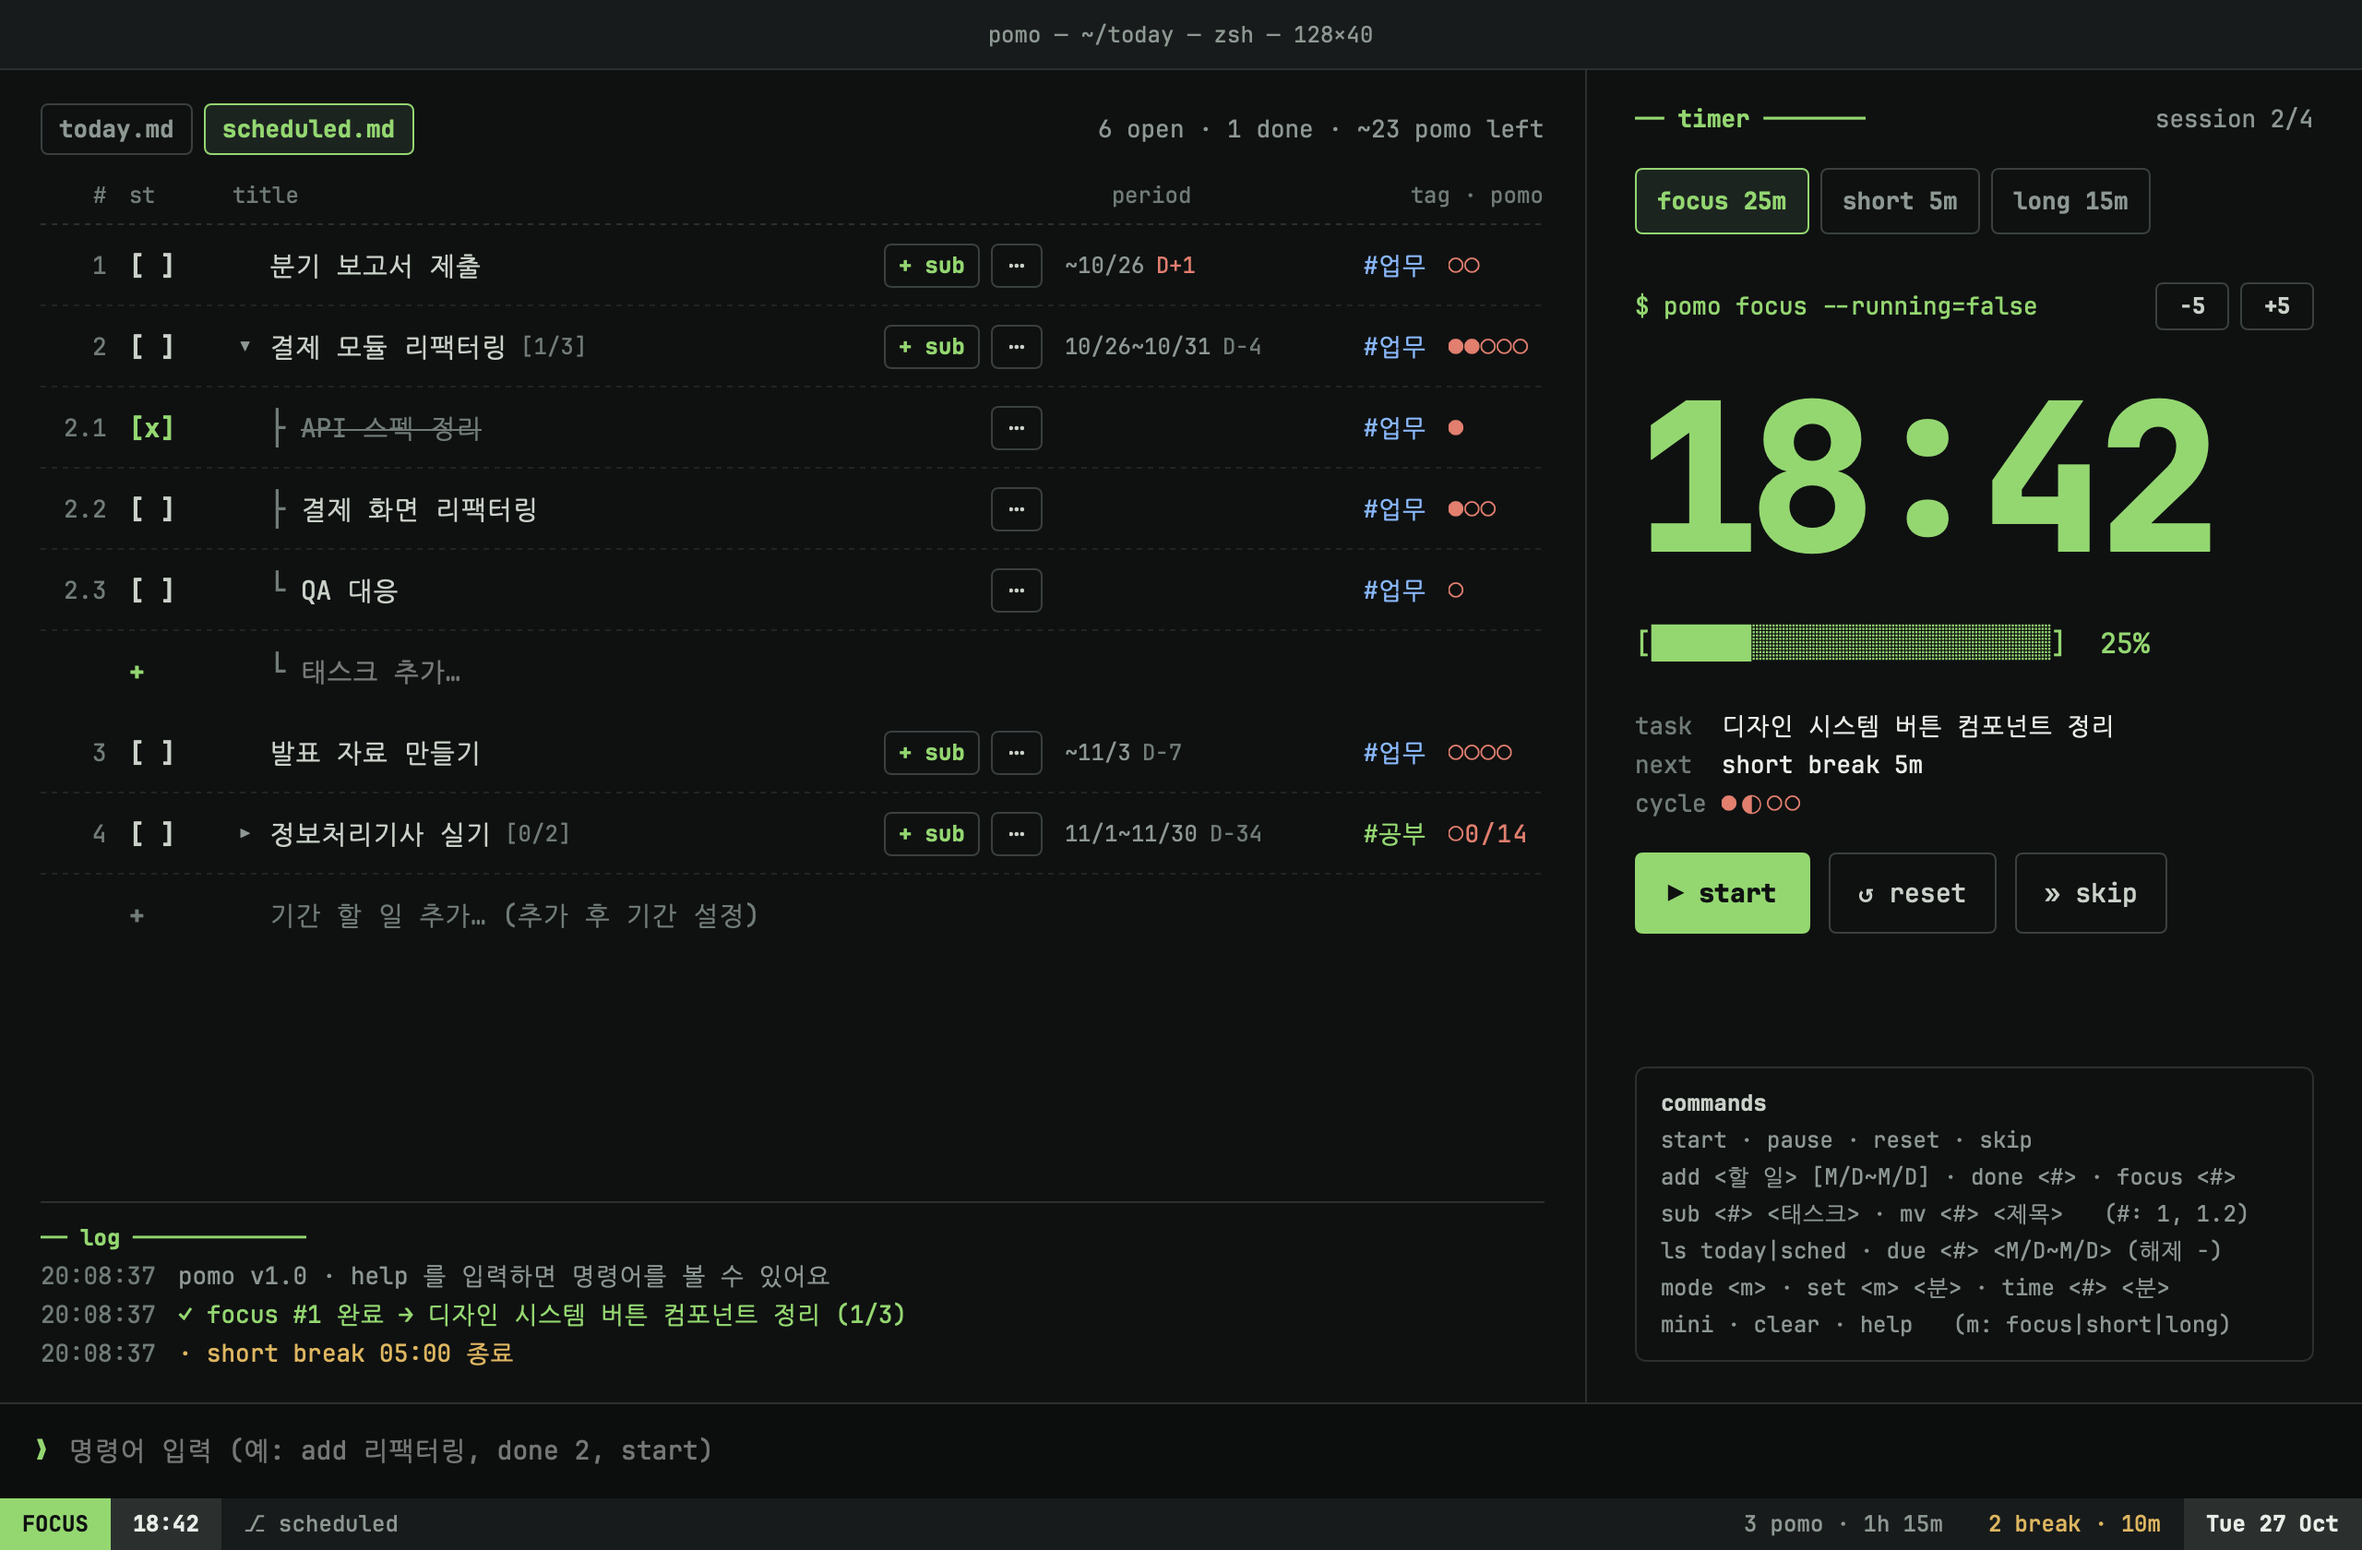
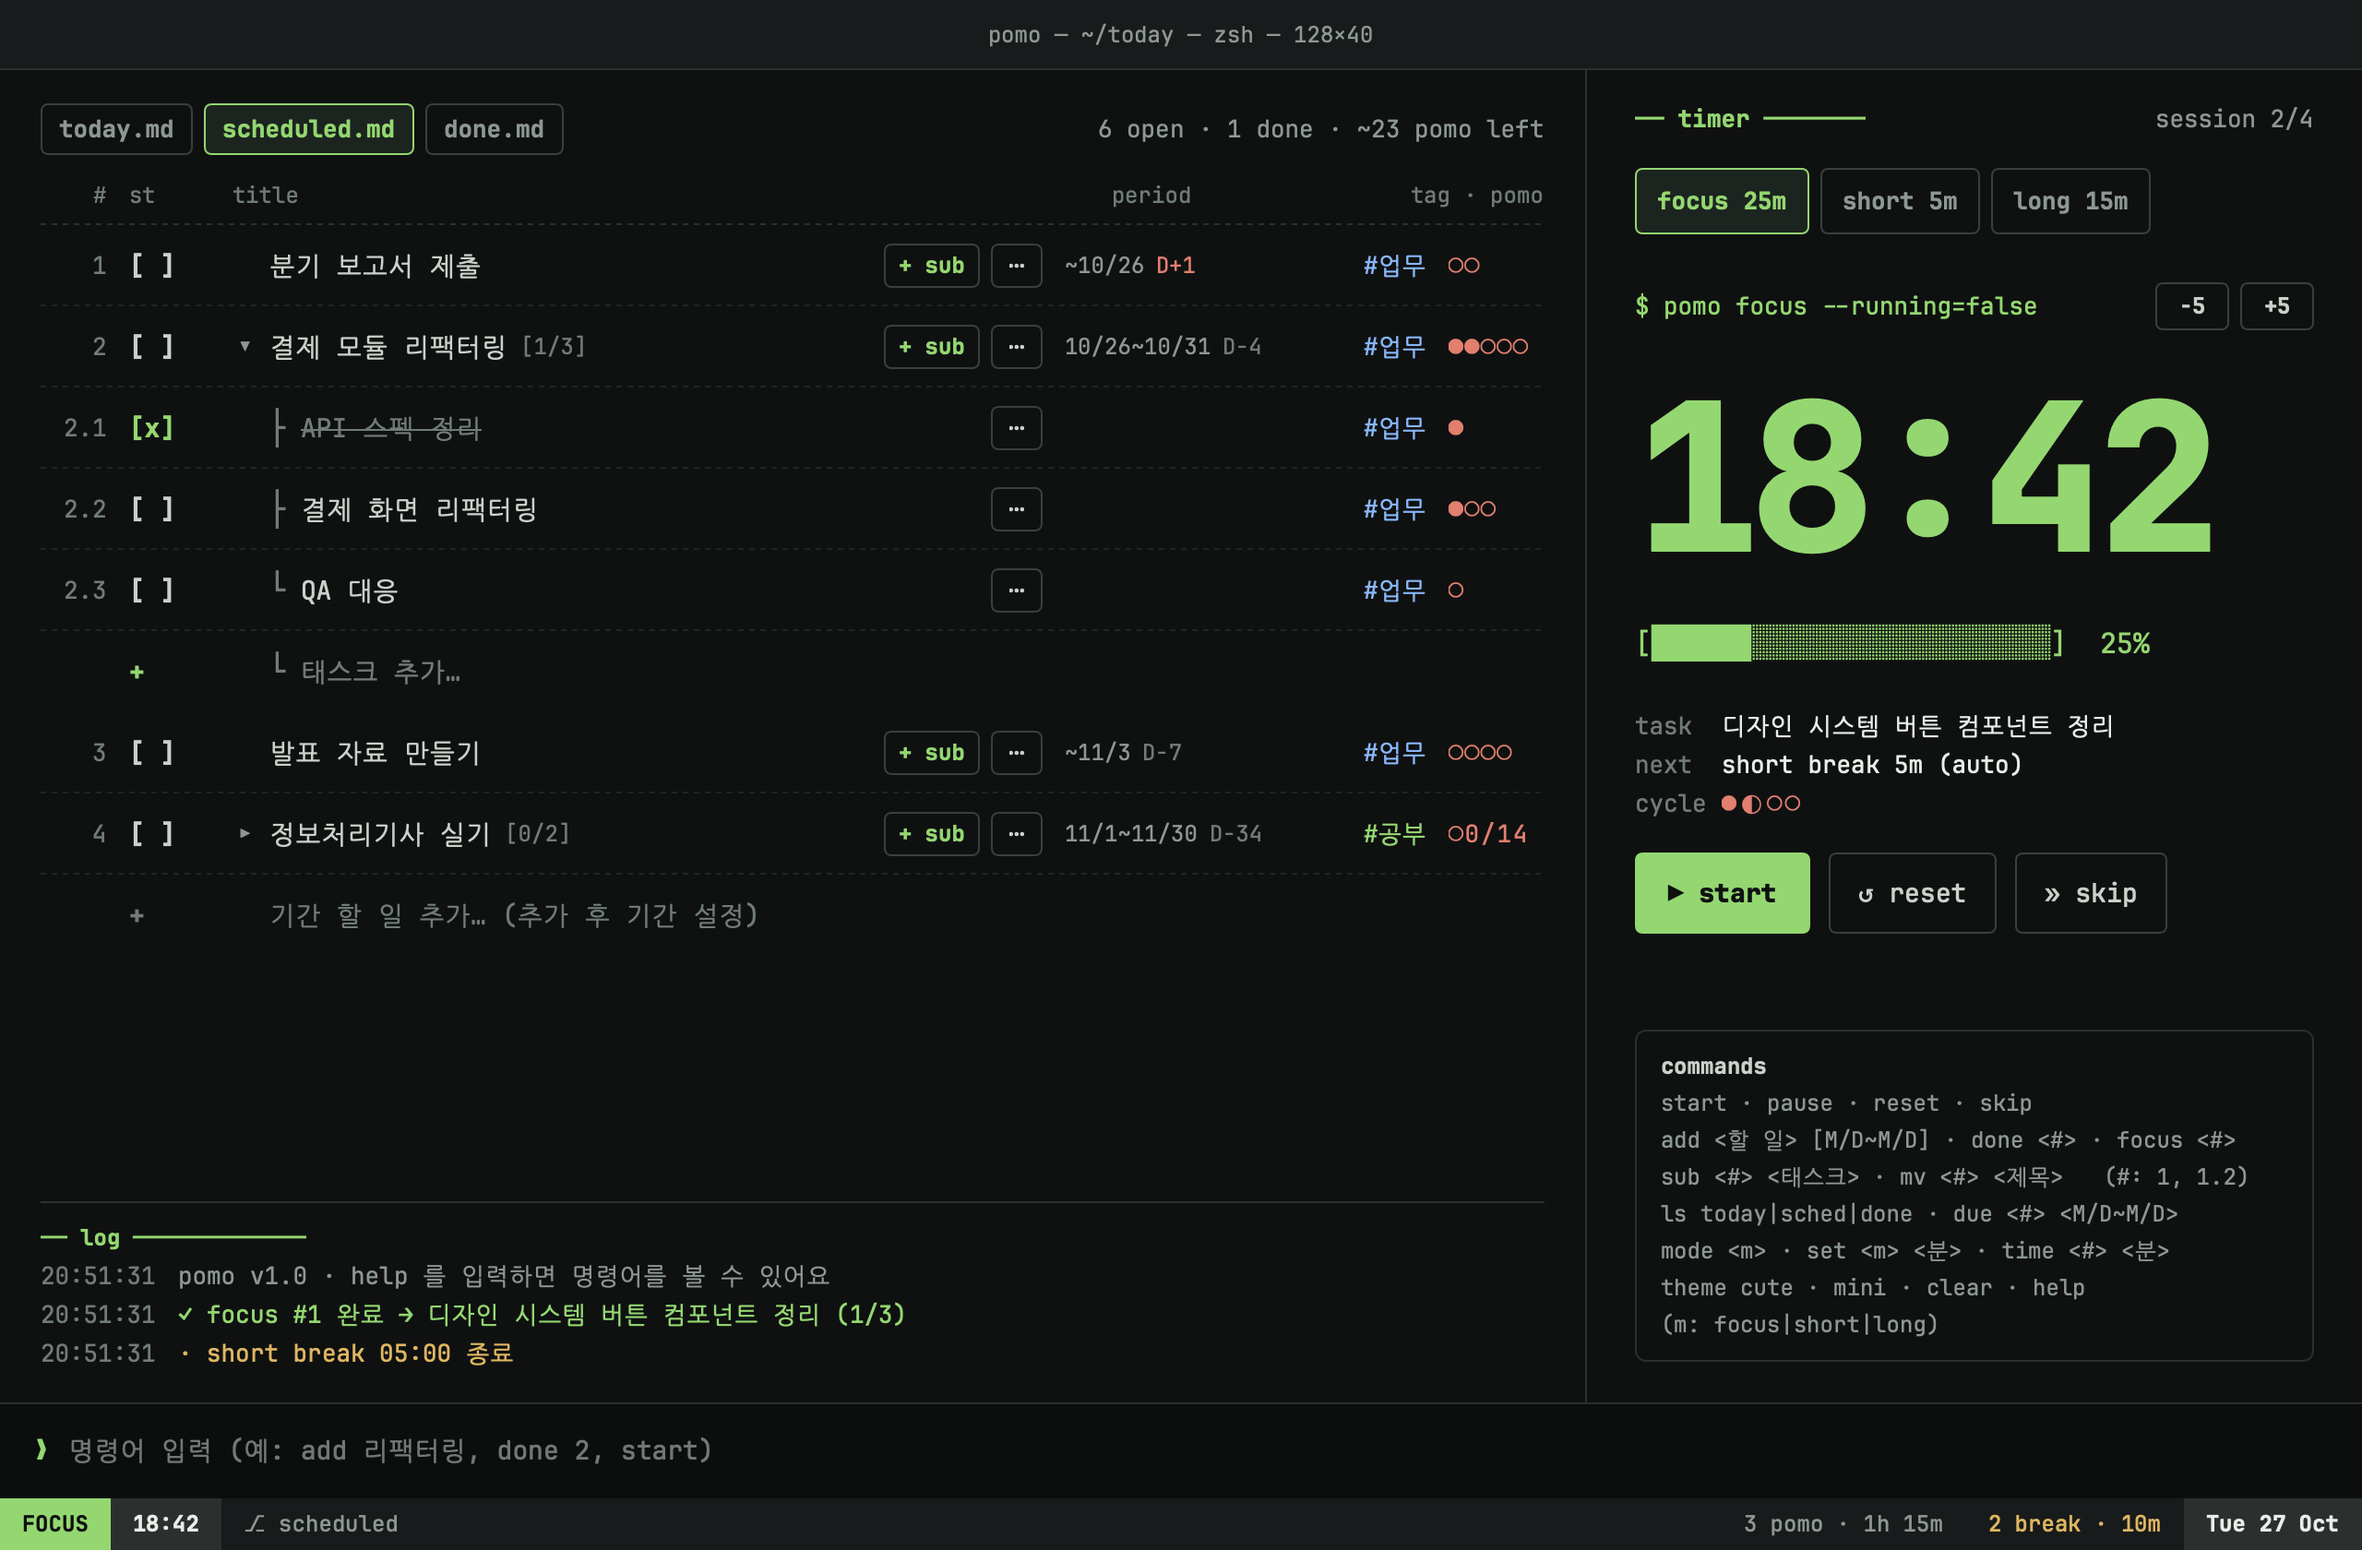
docs: README에 테마 설명과 스크린샷 추가
- 터미널 / 토마토 친구 두 테마 소개와 테마별 스크린샷
- 마우스 사용법을 테마별로, 완료함·⌘3·ls done·theme 명령어, 폴더 구조 갱신
- 스크린샷을 모두 새로 뽑음

Changed region(s): [[0.6875, 0.681, 0.9375, 0.8667], [0.1875, 0.0619, 0.25, 0.0929]]

diff --git a/README.md b/README.md
@@ -1,22 +1,32 @@
 # pomo-term
 
-터미널 감성의 macOS 뽀모도로 + 할 일 관리 앱.
-SwiftUI로 만든 네이티브 앱이고, 마우스로도 명령어(`❯ add 리팩터링`, `done 2`, `start`)로도 쓸 수 있어요.
+macOS 뽀모도로 + 할 일 관리 앱. SwiftUI로 만든 네이티브 앱이에요.
+테마를 두 가지 중에 고를 수 있고, 기능은 두 테마가 똑같아요.
 
-![메인 창](docs/screenshots/main.png)
+| 터미널 | 토마토 친구 |
+|---|---|
+| ![터미널 테마](docs/screenshots/main.png) | ![토마토 친구 테마](docs/screenshots/cute-main.png) |
+
+- **터미널**: 개발자 감성의 다크 테마. 마우스로도, 명령어(`❯ add 리팩터링`, `done 2`, `start`)로도 쓸 수 있어요
+- **토마토 친구**: 표정이 바뀌는 토마토 캐릭터와 파스텔 카드의 밝은 테마
+
+테마는 설정(⌘,)에서 고르거나 터미널 테마에서 `theme cute`로 바꿀 수 있어요. 메인 창 · 메뉴 막대 · 미니 타이머가 함께 바뀌어요.
 
 ## 기능
 
 - **뽀모도로 타이머**: 집중 25분 · 짧은 휴식 5분 · 긴 휴식 15분(4회마다). 메인 창에서 −/+로 바로 조절
-- **할 일 목록**: `today.md` / `scheduled.md` 두 탭
+- **할 일 목록**: 오늘 / 예정 / 완료함
   - 오늘 할 일과, 시작일~마감일이 있는 기간 할 일을 나눠 관리 (D-day 표시)
+  - 완료함: 지난날 완료한 할 일까지 모아 보기
   - **스토리 > 태스크** 두 단계 하위 작업, 접기/펼치기, 진행률 `[1/3]`
   - 태그(#업무 #개인 #공부), 예상 뽀모도로, 할 일마다 다른 집중 시간
 - **기록**: 오늘 완료한 뽀모도로 수 · 집중 시간 · 휴식 횟수 · 휴식 시간
-- **메뉴 막대**: 남은 시간을 `● 18:42`로 표시, 팝오버에서 시작/건너뛰기/다음 할 일
+- **메뉴 막대**: 남은 시간을 표시하고, 팝오버에서 시작/건너뛰기/다음 할 일
 - **미니 타이머**: 항상 위에 떠 있는 작은 창
 - **전역 단축키**: 어느 앱에서든 ⌘⇧P로 시작/일시정지 (설정에서 끌 수 있음)
 - 완료 알림과 소리, 데이터 자동 저장
+
+### 터미널
 
 | 기간 할 일 · 스토리 > 태스크 | 마우스 오버 버튼 · 바로 추가 |
 |---|---|
@@ -25,6 +35,16 @@ SwiftUI로 만든 네이티브 앱이고, 마우스로도 명령어(`❯ add 리
 | 메뉴 막대 팝오버 | 미니 타이머 · 메뉴 막대 라벨 |
 |---|---|
 | ![팝오버](docs/screenshots/popover.png) | ![미니 타이머](docs/screenshots/mini.png)<br>![메뉴 막대](docs/screenshots/menubar-label.png) |
+
+### 토마토 친구
+
+| 예정 · 스토리 > 태스크 · 마우스 오버 버튼 | 메뉴 막대 팝오버 |
+|---|---|
+| ![예정 목록](docs/screenshots/cute-main-scheduled.png) | ![팝오버](docs/screenshots/cute-popover.png) |
+
+| 미니 타이머 · 메뉴 막대 라벨 | 설정 (테마 선택) |
+|---|---|
+| ![미니 타이머](docs/screenshots/cute-mini.png)<br>![메뉴 막대](docs/screenshots/cute-menubar-label.png) | ![설정](docs/screenshots/settings-cute.png) |
 
 ## 요구 사항
 
@@ -47,19 +67,22 @@ open build/PomodoroTodo.app
 
 ### 마우스로
 
-| 하고 싶은 것 | 방법 |
-|---|---|
-| 할 일 추가 | 목록 맨 아래 `+ 할 일 추가…` (⌘N) |
-| 하위 태스크 추가 | 스토리에 마우스를 올리고 `[+ sub]` |
-| 집중 대상 선택 | 제목 클릭 |
-| 완료 | `[ ]` 클릭 (열린 태스크가 있는 스토리는 함께 완료할지 물어봄) |
-| 제목 수정 | 제목 더블클릭 |
-| 기간 · 태그 · 집중 시간 · 삭제 | 우클릭 또는 `[⋯]` |
-| 접기 / 펼치기 | 스토리 앞 `▾` / `▸` |
+| 하고 싶은 것 | 터미널 | 토마토 친구 |
+|---|---|---|
+| 할 일 추가 (⌘N) | 목록 맨 아래 `+ 할 일 추가…` | 맨 위 입력줄 + `추가` |
+| 하위 태스크 추가 | 마우스를 올리고 `[+ sub]` | 마우스를 올리고 `+ 태스크` |
+| 집중 대상 선택 | 제목 클릭 | `▶ 집중하기` |
+| 완료 | `[ ]` 클릭 | 체크박스 클릭 |
+| 제목 수정 | 제목 더블클릭 | 제목 더블클릭 |
+| 기간 · 태그 · 집중 시간 · 삭제 | 우클릭 또는 `[⋯]` | 우클릭 또는 `⋯` |
+| 접기 / 펼치기 | `▾` / `▸` | `⌄` / `›` |
+| 태그별로 보기 | | 사이드바 프로젝트 클릭 |
+
+열린 태스크가 남은 스토리를 완료하면, 태스크도 함께 완료할지 물어봐요.
 
 ### 명령어
 
-창 아래 `❯` 입력줄에 입력하고 Enter. `<#>`는 목록 번호로, 하위 태스크는 `1.2`처럼 써요.
+터미널 테마의 창 아래 `❯` 입력줄에 입력하고 Enter. `<#>`는 목록 번호로, 하위 태스크는 `1.2`처럼 써요.
 
 | 명령어 | 별칭 | 설명 |
 |---|---|---|
@@ -70,12 +93,13 @@ open build/PomodoroTodo.app
 | `done <#> [--all\|--only]` | `d` | 완료 토글. 열린 태스크가 있는 스토리는 `--all`(함께 완료) / `--only`(스토리만) |
 | `focus <#>` | `f` | 집중 대상 선택 (번호 없이 쓰면 focus 모드로) |
 | `fold <#>` · `unfold <#>` | | 스토리 접기 · 펼치기 |
-| `ls today\|sched` | | 탭 전환 |
+| `ls today\|sched\|done` | | 목록 전환 |
 | `due <#> <기간>` · `due <#> -` | | 기간 설정 · 해제 |
 | `time <#> <분>` · `time <#> -` | `t` | 할 일의 집중 시간 설정 · 기본값으로 |
 | `mode focus\|short\|long` | | 모드 전환 |
 | `set focus\|short\|long <분>` | | 기본 시간 변경 |
 | `mini` | `m` | 미니 타이머 열기/닫기 |
+| `theme terminal\|cute` | | 테마 바꾸기 |
 | `clear` · `help` | | 로그 비우기 · 명령어 목록 |
 
 기간은 `11/3`, `~11/3`(마감일만), `10/27~10/31`, `오늘~내일` 형식이에요.
@@ -85,7 +109,7 @@ open build/PomodoroTodo.app
 
 - **today**: 기간 없는 할 일 + 시작일이 오늘이거나 지난 기간 할 일
 - **scheduled**: 기간 할 일 전체, 마감일 순 (마감일만 있는 할 일은 여기에만)
-- 완료한 할 일은 완료한 날까지만 보이고, 미완료는 다음 날로 이어져요
+- 완료한 할 일은 완료한 날까지만 보이고(이후엔 **완료함**에), 미완료는 다음 날로 이어져요
 - 뽀모도로 · 휴식은 끝까지 마친 것만 기록하고 skip한 건 세지 않아요
 
 ### 단축키
@@ -93,14 +117,14 @@ open build/PomodoroTodo.app
 | 단축키 | 동작 |
 |---|---|
 | ⌘N | 새 할 일 |
-| ⌘1 / ⌘2 | today / scheduled 탭 |
+| ⌘1 / ⌘2 / ⌘3 | 오늘 / 예정 / 완료함 |
 | ⌘⇧M | 미니 타이머 |
 | ⌘⇧P | 어디서든 시작/일시정지 (전역, VS Code 명령 팔레트와 겹치면 설정에서 끄기) |
 | ⌘, | 설정 |
 
 ## 데이터
 
-할 일과 설정, 오늘 기록은 아래 파일 하나에 자동 저장돼요.
+할 일과 설정, 오늘 기록은 아래 파일 하나에 자동 저장돼요. 고른 테마는 앱 설정(`com.local.pomodorotodo`)에 따로 저장돼요.
 
 ```
 ~/Library/Application Support/PomodoroTodo/data.json
@@ -108,20 +132,27 @@ open build/PomodoroTodo.app
 
 ## 프로젝트 구조
 
+로직은 하나(`Core`)이고 화면만 테마별(`Terminal`, `Cute`)로 나뉘어 있어요.
+
 ```
 Sources/
-├── PomodoroTodoApp.swift   앱 시작점 (메인 창, 메뉴 막대, 설정, 메뉴 명령)
-├── AppStore.swift          상태 · 타이머 · 할 일 · 명령어 해석 · 저장
-├── Models.swift            TodoItem, ListRow, 설정, 저장 형식
-├── Period.swift            기간 해석과 D-day
-├── Theme.swift             색 토큰, 번들 폰트
-├── MainWindowView.swift    메인 창
-├── MenuBarPopover.swift    메뉴 막대 라벨과 팝오버
-├── MiniTimer.swift         미니 타이머 (NSPanel)
-├── GlobalHotKey.swift      ⌘⇧P 전역 단축키
-├── SettingsView.swift      설정 창
-└── Snapshot.swift          개발용 화면 스냅샷
-Resources/Fonts/            JetBrains Mono, Nanum Gothic Coding
+├── App/
+│   ├── PomodoroTodoApp.swift   앱 시작점 (씬, 메뉴 명령, 테마 주입)
+│   ├── GlobalHotKey.swift      ⌘⇧P 전역 단축키
+│   └── Snapshot.swift          개발용 화면 스냅샷
+├── Core/
+│   ├── AppStore.swift          상태 · 타이머 · 할 일 · 명령어 해석 · 저장
+│   ├── Models.swift            TodoItem, ListRow, 설정, 저장 형식
+│   └── Period.swift            기간 해석과 D-day
+├── Shared/
+│   ├── ThemeRoot.swift         ThemeID, 테마별 화면으로 갈라지는 지점
+│   ├── TaskActions.swift       할 일 메뉴 · 완료 확인 · 제목 수정 (테마 공통)
+│   ├── PeriodEditor.swift      기간 설정 시트
+│   ├── MiniTimerPanel.swift    미니 타이머 창 (NSPanel)
+│   └── SettingsView.swift      설정 창 · 테마 선택
+├── Terminal/                   터미널 테마 (토큰, 메인 창, 메뉴 막대, 미니 타이머)
+└── Cute/                       토마토 친구 테마 (토큰, 캐릭터·부품, 메인 창, 타이머 패널, 메뉴 막대, 미니 타이머)
+Resources/Fonts/                JetBrains Mono, Nanum Gothic Coding (터미널 테마)
 ```
 
 화면을 PNG로 뽑아 보려면 (샘플 데이터 사용, `data.json`은 건드리지 않음):
